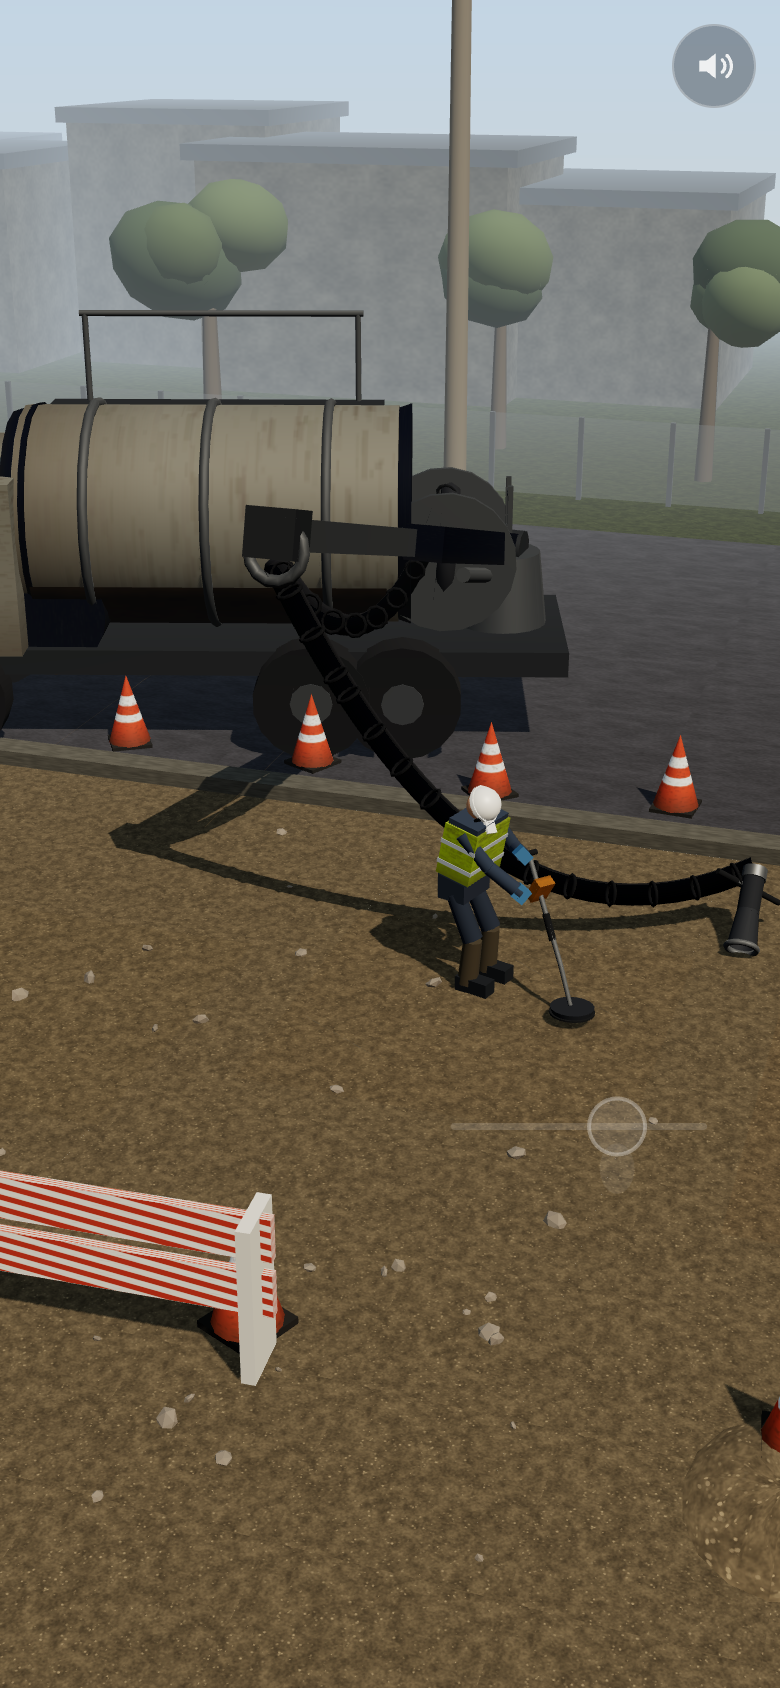
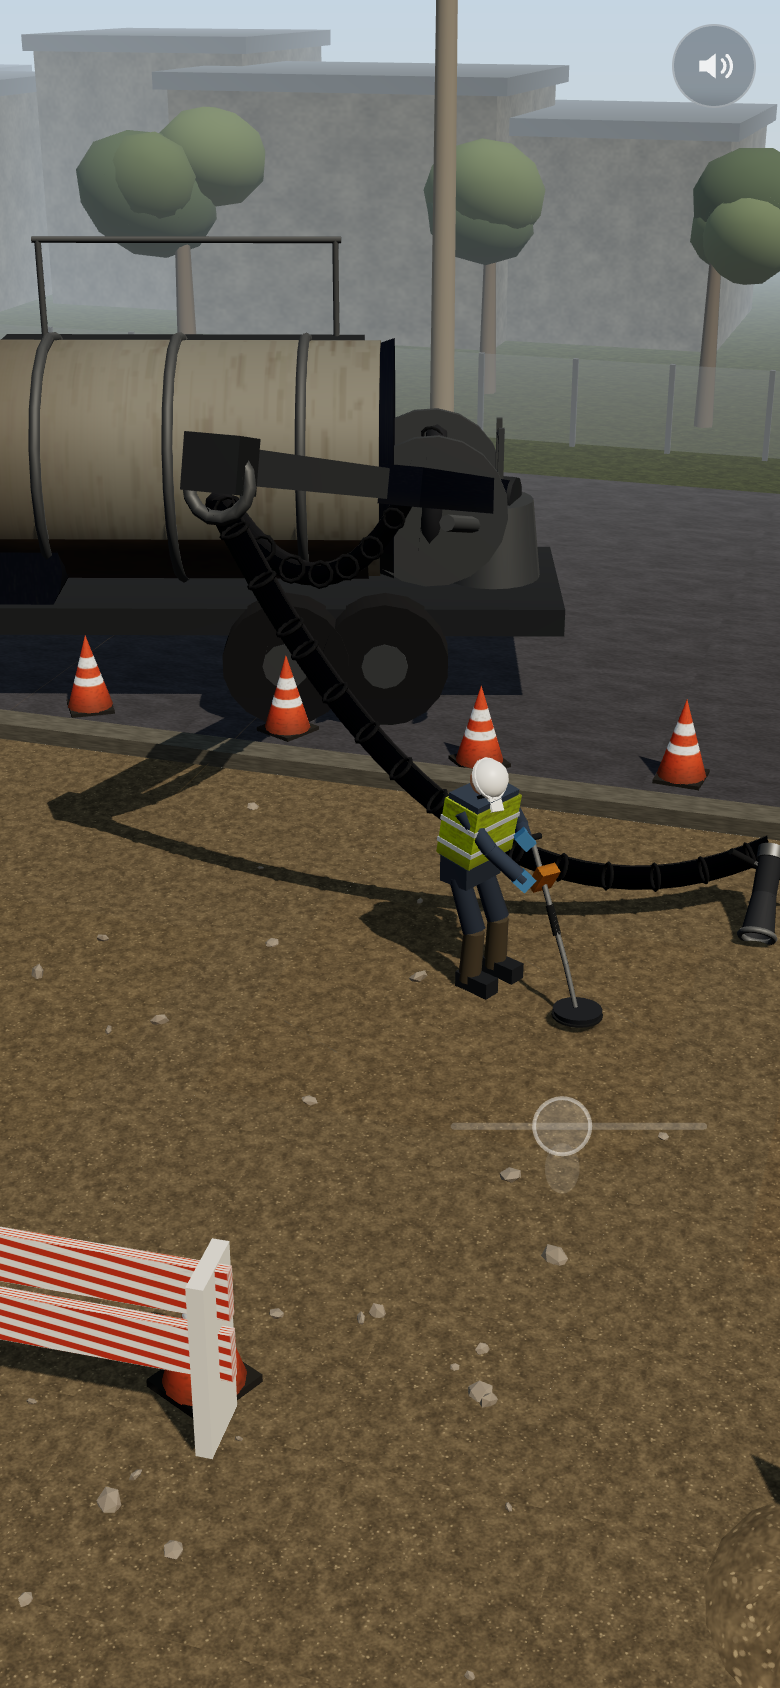
Widen the pipe reveal band, retune framing, add browser probes

diff --git a/src/dig/DigSite.ts b/src/dig/DigSite.ts
@@ -76,6 +76,8 @@ export interface SuctionReport {
 const PIPE_MARGIN = 0.022;
 const MAX_DEPTH = 0.72;
 const MAX_WALL_STEP = 0.042;
+/** How close to the buried surface soil starts lifting off rather than digging. */
+const CUT_BAND = 0.075;
 
 export class DigSite {
   readonly group = new THREE.Group();
@@ -337,24 +339,24 @@ export class DigSite {
         const yield_ = 0.06 + 0.94 * Math.pow(w, 1.25);
         const take = rate * f * yield_;
         const room = this.cap[i] - this.depth[i];
-        if (room > 0.0004) {
-          const dug = Math.min(take, room);
+        const dug = Math.min(take, Math.max(0, room));
+        if (dug > 0) {
           this.depth[i] += dug;
-          this.wet[i] = Math.max(0, w - dug * 2.6);
           volume += dug;
+          if (this.depth[i] > deepest) deepest = this.depth[i];
+        }
+        // Close to buried plant the suction stops driving the hole deeper and
+        // starts lifting the last skin of soil off the surface instead. The
+        // band means a whole arc of the crown bares, not a hairline.
+        if (this.cap[i] < MAX_DEPTH - 0.01 && room < CUT_BAND && this.cut[i] < 1) {
+          const nearness = 1 - Math.max(0, room) / CUT_BAND;
+          this.cut[i] = Math.min(1, this.cut[i] + take * 13 * nearness);
+          volume += take * 0.35 * nearness;
+        }
+        if (dug > 0 || this.cut[i] > 0) {
+          this.wet[i] = Math.max(0, w - take * 2.4);
           wetSum += w;
           wetCount++;
-          if (this.depth[i] > deepest) deepest = this.depth[i];
-        } else if (this.cap[i] < MAX_DEPTH - 0.01 && this.cut[i] < 1) {
-          // bottomed out on buried plant: from here the suction lifts the last
-          // skin of soil off the surface instead of driving the hole deeper.
-          this.depth[i] = this.cap[i];
-          this.cut[i] = Math.min(1, this.cut[i] + take * 13);
-          this.wet[i] = Math.max(0, w - take * 2.0);
-          volume += take * 0.45;
-          wetSum += w;
-          wetCount++;
-          if (this.depth[i] > deepest) deepest = this.depth[i];
         }
       }
     }
@@ -538,6 +540,13 @@ export class DigSite {
     }
   }
 
+  /** Highest wetness anywhere on the patch; used by the automated checks. */
+  peakWet(): number {
+    let m = 0;
+    for (let i = 0; i < this.wet.length; i++) if (this.wet[i] > m) m = this.wet[i];
+    return m;
+  }
+
   /** Total moisture held in a disc of soil; drives the water/suction rhythm. */
   wetAround(worldX: number, worldZ: number, radius: number): number {
     const [gx, gz] = this.toGrid(worldX, worldZ);
@@ -652,7 +661,7 @@ varying vec3 vWNrm;`
         `void main() {
   // ragged, position-stable dissolve rather than a clean circular cut
   float grit = fract(sin(dot(floor(vGrit), vec2(12.9898, 78.233))) * 43758.5453);
-  if (vCut > 0.22 + grit * 0.42) discard;`
+  if (vCut > 0.28 + grit * 0.34) discard;`
       )
       .replace(
         '#include <map_fragment>',
@@ -666,7 +675,7 @@ varying vec3 vWNrm;`
       texture2D(map, vec2(vWPos.x, vWPos.y) * uSoilScale) * tw.z;
     diffuseColor *= soil;
   }
-  diffuseColor.rgb *= mix(1.0, 0.44, clamp(vWet, 0.0, 1.0));
+  diffuseColor.rgb *= mix(1.0, 0.36, clamp(vWet, 0.0, 1.0));
   diffuseColor.rgb = mix(diffuseColor.rgb, diffuseColor.rgb * vec3(0.92, 0.95, 1.03), clamp(vWet, 0.0, 1.0));`
       )
       .replace(

diff --git a/src/game/Game.ts b/src/game/Game.ts
@@ -92,7 +92,7 @@ export class Game {
   private handL = new THREE.Vector3();
   private handR = new THREE.Vector3();
   private soilColor = new THREE.Color();
-  private waterColor = new THREE.Color(0.72, 0.84, 0.9);
+  private waterColor = new THREE.Color(1, 1, 1);
   private projected = new THREE.Vector3();
   private boomTarget = new THREE.Vector3();
   private anchorA = new THREE.Vector3();
@@ -187,12 +187,12 @@ export class Game {
     const grain = new THREE.IcosahedronGeometry(0.5, 0);
     this.soilFx = new ParticlePool(
       grain,
-      new THREE.MeshStandardMaterial({ roughness: 1, metalness: 0, flatShading: true }),
+      new THREE.MeshStandardMaterial({ color: 0x6d5941, roughness: 1, metalness: 0, flatShading: true }),
       260
     );
     this.dropFx = new ParticlePool(
       grain,
-      new THREE.MeshStandardMaterial({ roughness: 0.22, metalness: 0, flatShading: true }),
+      new THREE.MeshStandardMaterial({ color: 0x9cc2d6, roughness: 0.22, metalness: 0, flatShading: true }),
       110
     );
     this.scene.add(this.soilFx.mesh, this.dropFx.mesh);
@@ -540,7 +540,7 @@ export class Game {
       }
       case 'handoff': {
         const next = SITES[Math.min(this.siteIndex + 1, SITES.length - 1)];
-        this.tmp.copy(SITES[this.siteIndex].origin).lerp(next.origin, 0.55);
+        this.tmp.copy(SITES[this.siteIndex].origin).lerp(next.origin, 0.72);
         this.director.setShot(SHOTS.handoff(), this.tmp);
         break;
       }
@@ -668,7 +668,7 @@ export class Game {
     this.audio.setWater(on, impact);
 
     if (on) {
-      dig.applyWater(impact.x, impact.z, 0.2, dt);
+      dig.applyWater(impact.x, impact.z, 0.235, dt);
       this.waterHeld += dt;
       this.spawnDroplets(impact, dt);
     }
@@ -881,9 +881,9 @@ export class Game {
     const working =
       this.phase === 'vacuum' || this.phase === 'reveal' || this.phase === 'water' || this.phase === 'depth';
     this.boomTarget.copy(working ? this.workPoint : SITES[this.siteIndex].origin);
-    this.boomTarget.x += working ? 0.4 : 1.5;
-    this.boomTarget.z += working ? 0.95 : 1.9;
-    this.truck.aimAt(this.boomTarget, working ? 2.45 : 2.8);
+    this.boomTarget.x += working ? 1.05 : 1.6;
+    this.boomTarget.z += working ? 0.85 : 1.9;
+    this.truck.aimAt(this.boomTarget, working ? 2.55 : 2.85);
     this.truck.update(dt);
 
     const reel = this.truck.reelWorld(this.anchorA);
@@ -914,11 +914,9 @@ export class Game {
       const x = this.workPoint.x + Math.cos(a) * r;
       const z = this.workPoint.z + Math.sin(a) * r;
       const y = this.groundHeight(x, z) + 0.01;
-      this.soilColor.setRGB(
-        lerp(0.5, 0.24, mud) + Math.random() * 0.09,
-        lerp(0.42, 0.19, mud) + Math.random() * 0.07,
-        lerp(0.3, 0.13, mud) + Math.random() * 0.05
-      );
+      // multiplier over the pool's soil colour: wet spoil comes out darker
+      const v = lerp(1.05, 0.45, mud) + (Math.random() - 0.5) * 0.22;
+      this.soilColor.setRGB(v, v * 0.98, v * 0.92);
       this.soilFx.spawn(
         x,
         y,
@@ -934,7 +932,7 @@ export class Game {
     }
     // a little spatter is thrown clear of the mouth rather than vanishing
     if (Math.random() < dt * 12 * this.particleScale) {
-      this.dropFx.spawn(
+      this.soilFx.spawn(
         this.workPoint.x,
         gy + 0.04,
         this.workPoint.z,

diff --git a/src/fx/Effects.ts b/src/fx/Effects.ts
@@ -263,8 +263,8 @@ export class WaterJet {
 
   update(dt: number, from: THREE.Vector3, to: THREE.Vector3, on: boolean, camera: THREE.Camera) {
     this.strength += ((on ? 1 : 0) - this.strength) * Math.min(1, dt * 12);
-    this.mat.opacity = this.strength * 0.62;
-    this.splashMat.opacity = this.strength * 0.5;
+    this.mat.opacity = this.strength * 0.88;
+    this.splashMat.opacity = this.strength * 0.2;
     this.tex.offset.y -= dt * 3.4;
     if (this.strength < 0.01) return;
 
@@ -280,7 +280,7 @@ export class WaterJet {
       const t = i / seg;
       p.copy(from).addScaledVector(dir, t);
       p.y -= Math.sin(t * Math.PI) * 0.02;
-      const w = (0.012 + t * 0.05) * (0.7 + this.strength * 0.3);
+      const w = (0.016 + t * 0.075) * (0.7 + this.strength * 0.3);
       arr[i * 6] = p.x - side.x * w;
       arr[i * 6 + 1] = p.y - side.y * w;
       arr[i * 6 + 2] = p.z - side.z * w;
@@ -292,7 +292,7 @@ export class WaterJet {
     this.geo.boundingSphere = null;
     this.splash.position.set(to.x, to.y + 0.006, to.z);
     const pulse = 1 + Math.sin(performance.now() * 0.02) * 0.08;
-    this.splash.scale.setScalar(pulse * (0.7 + this.strength * 0.5));
+    this.splash.scale.setScalar(pulse * (0.34 + this.strength * 0.26));
   }
 }
 

diff --git a/src/game/CameraDirector.ts b/src/game/CameraDirector.ts
@@ -160,7 +160,7 @@ export const SHOTS = {
   /** First wetting: low and close, so the colour change is unmistakable. */
   water: (): Shot => ({
     dir: new THREE.Vector3(-0.24, 0.66, -0.72).normalize(),
-    distance: 2.9,
+    distance: 3.3,
     fov: 42,
     ndcY: 0.15,
     raise: 0.24,
@@ -171,7 +171,7 @@ export const SHOTS = {
   /** Suction: mid shot, wet patch and hose both in frame. */
   vacuum: (): Shot => ({
     dir: new THREE.Vector3(-0.3, 0.82, -0.56).normalize(),
-    distance: 3.9,
+    distance: 4.7,
     fov: 42,
     ndcY: 0.14,
     raise: 0.3,
@@ -182,9 +182,9 @@ export const SHOTS = {
   /** The moment a made thing appears in the dirt. */
   macro: (): Shot => ({
     dir: new THREE.Vector3(-0.16, 0.92, -0.42).normalize(),
-    distance: 1.7,
+    distance: 1.65,
     fov: 38,
-    ndcY: 0.1,
+    ndcY: 0.02,
     raise: 0.08,
     portraitDistance: 1.18,
     portraitFov: 46,
@@ -193,7 +193,7 @@ export const SHOTS = {
   /** Working around the pipe. */
   expose: (): Shot => ({
     dir: new THREE.Vector3(-0.34, 0.86, -0.5).normalize(),
-    distance: 3.5,
+    distance: 4.3,
     fov: 42,
     ndcY: 0.14,
     raise: 0.28,

diff --git a/src/main.ts b/src/main.ts
@@ -48,7 +48,7 @@ function resize() {
   game.director.setViewport(w, h);
   hud.resize();
   // portrait leaves more room below the work point, so the finger sits lower
-  input.lift = h > w ? 0.155 : 0.115;
+  input.lift = h > w ? 0.155 : 0.15;
 }
 
 window.addEventListener('resize', resize);
@@ -119,6 +119,7 @@ declare global {
       signal: () => number;
       finger: () => { x: number; y: number };
       route: () => Array<{ x: number; y: number }>;
+      wet: () => number;
     };
   }
 }
@@ -132,4 +133,5 @@ window.__dig = {
   signal: () => game.detectSignal,
   finger: () => game.fingerTargetScreen(window.innerWidth, window.innerHeight, input.lift),
   route: () => game.routeScreen(window.innerWidth, window.innerHeight, input.lift),
+  wet: () => game.activeSite.peakWet(),
 };

diff --git a/src/dig/Pipes.ts b/src/dig/Pipes.ts
@@ -23,7 +23,7 @@ interface KindLook {
 
 const LOOKS: Record<PipeKind, KindLook> = {
   // Buried utilities are stained and matte. Nothing here is allowed to glow.
-  pe: { color: 0x35759f, ribbed: false, roughness: 0.52, metalness: 0.0, couplingColor: 0x22536f },
+  pe: { color: 0x35759f, ribbed: false, roughness: 0.4, metalness: 0.0, couplingColor: 0x22536f },
   castiron: { color: 0x4a443d, ribbed: false, roughness: 0.86, metalness: 0.45, couplingColor: 0x3b3730 },
   steel: { color: 0x76767a, ribbed: false, roughness: 0.55, metalness: 0.72, couplingColor: 0x5d5d61 },
   cableduct: { color: 0x2a2a2c, ribbed: true, roughness: 0.82, metalness: 0.0, couplingColor: 0xd8a12a },

diff --git a/src/game/Sites.ts b/src/game/Sites.ts
@@ -78,7 +78,7 @@ export const SITES: SiteConfig[] = [
     scanHalf: new THREE.Vector2(0.84, 0.66),
     scanStart: new THREE.Vector2(0.74, 0.46),
     markings: [{ x: 0.18, z: 0.78, rot: 0.6, length: 1.0, color: '#8f8a3f', dashed: true }],
-    requiredExposure: 0.44,
+    requiredExposure: 0.38,
     workerOffset: new THREE.Vector2(0.56, 0.54),
   },
   {

diff --git a/src/scene/Environment.ts b/src/scene/Environment.ts
@@ -272,8 +272,8 @@ export class Environment {
     const spots: Array<[number, number, number]> = [
       [-6.6, -0.4, 0.6],
       [7.0, 1.1, 0.52],
-      [-2.2, -4.6, 0.4],
-      [5.6, -4.2, 0.44],
+      [-8.6, -3.2, 0.44],
+      [8.8, -2.4, 0.46],
     ];
     const im = new THREE.InstancedMesh(geo, mat, spots.length);
     im.castShadow = true;
